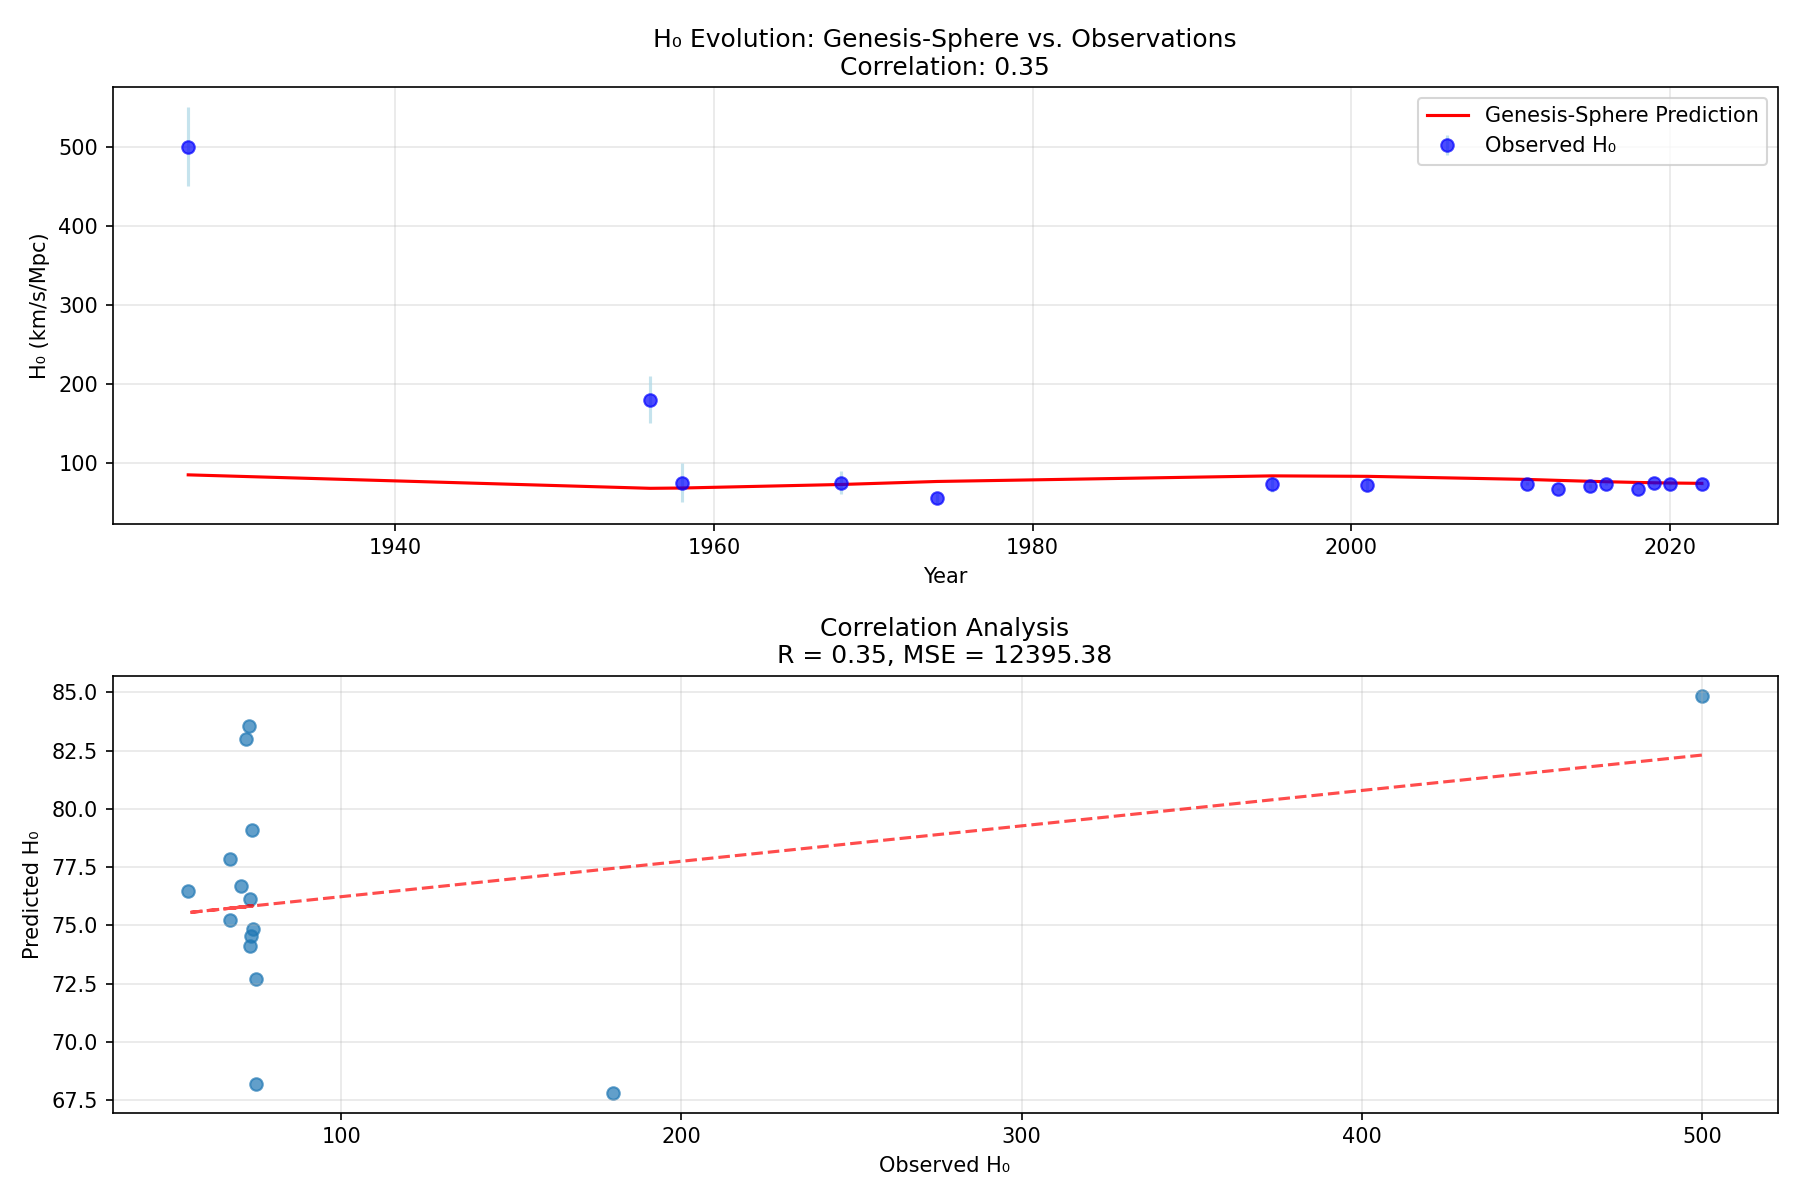
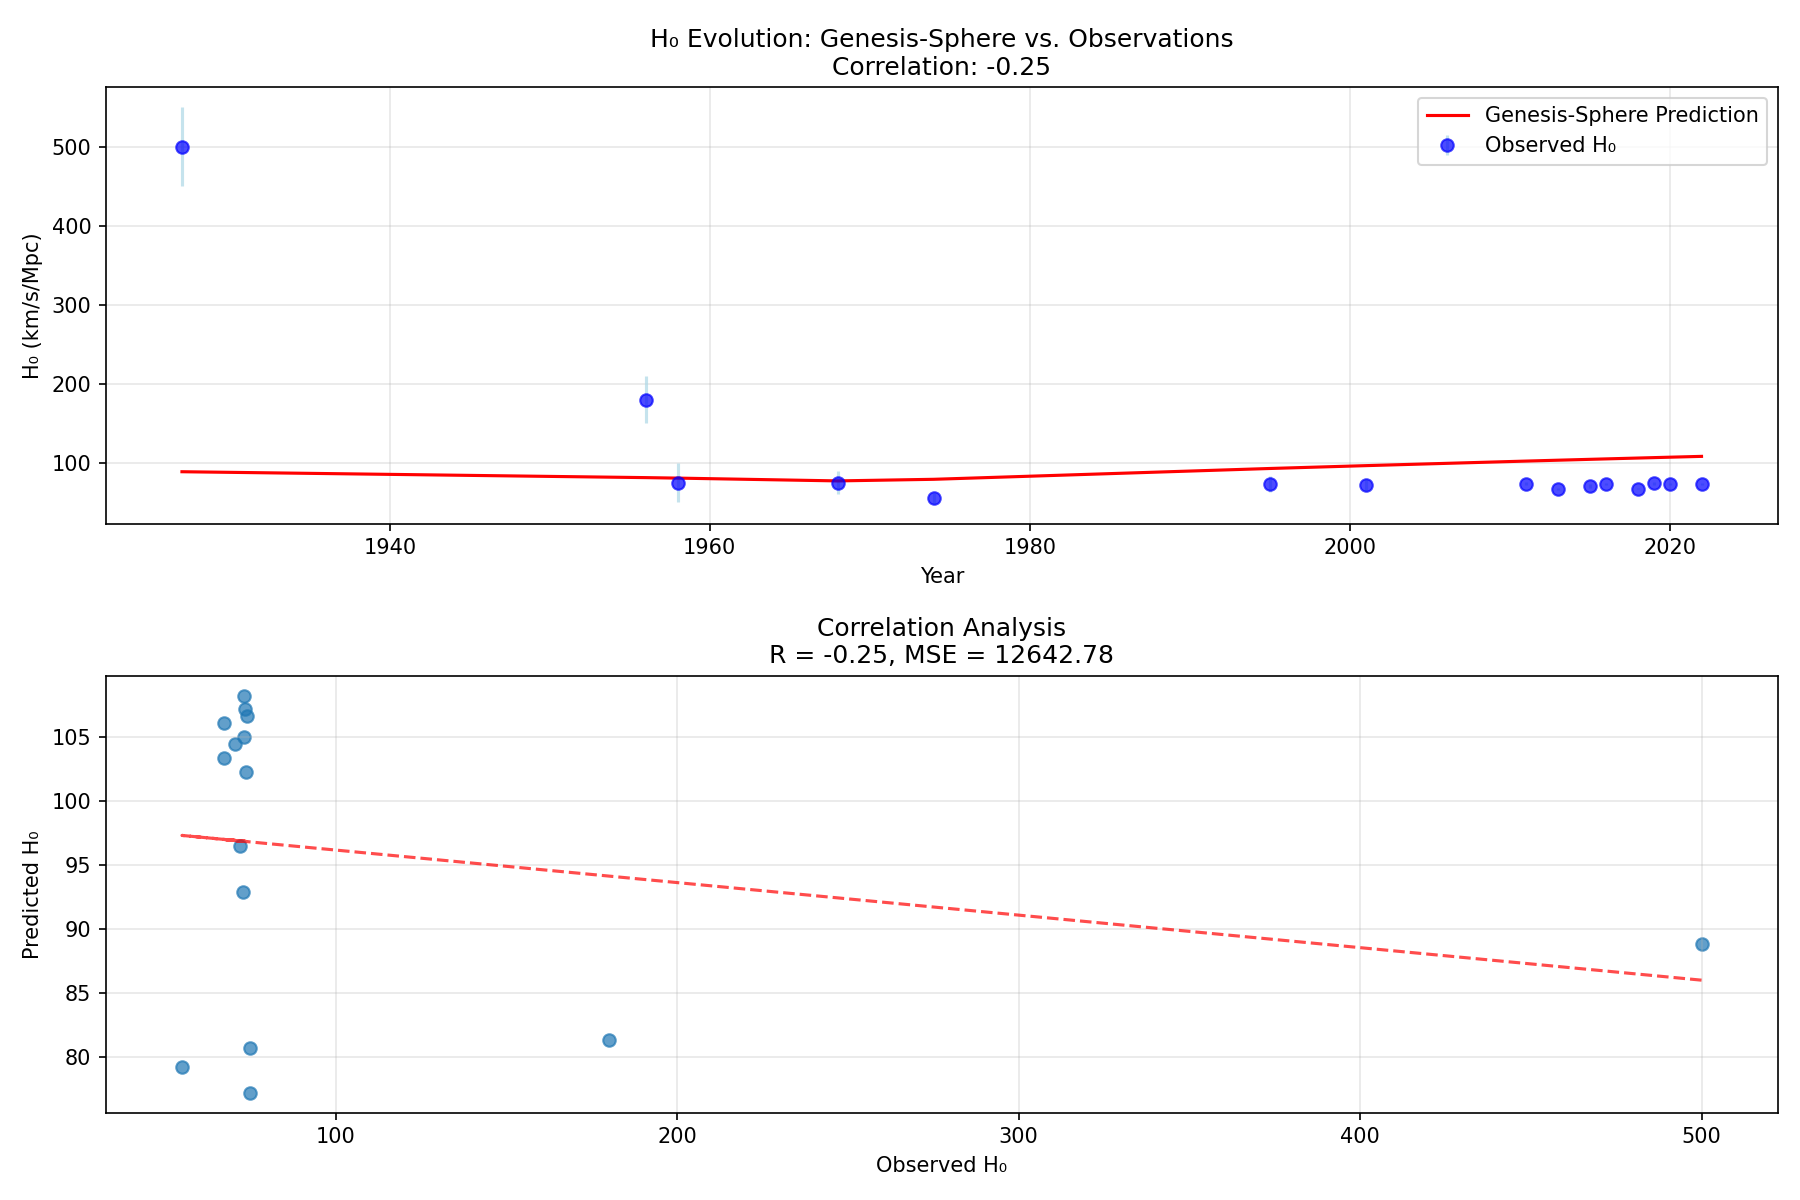
Update celestial correlation validation report with new parameter values and assessment metrics

diff --git a/validation/results/celestial_correlation/celestial_correlation_summary.md b/validation/results/celestial_correlation/celestial_correlation_summary.md
@@ -1,28 +1,25 @@
 # Genesis-Sphere Celestial Correlation Validation Report
 
-**Generated**: 2025-04-18 22:07:11
+**Generated**: 2025-04-18 22:09:59
 
 ## Model Parameters
 
 | Parameter | Value | Description |
 |-----------|-------|-------------|
-| Alpha (α) | 0.1000 | Spatial dimension expansion coefficient |
-| Beta (β) | 0.2712 | Temporal damping factor |
-| Omega (ω) | 4.1702 | Angular frequency |
-| Epsilon (ε) | 0.0100 | Zero-prevention constant |
-
-*These parameters were optimized to best fit astronomical observations.*
-
+| Alpha (α) | 0.0200 | Spatial dimension expansion coefficient |
+| Beta (β) | 0.8000 | Temporal damping factor |
+| Omega (ω) | 1.0000 | Angular frequency |
+| Epsilon (ε) | 0.1000 | Zero-prevention constant |
 
 ## Overall Assessment
 
-- **Hubble Constant Evolution**: 34.5% correlation with H₀ measurement variations
-- **Type Ia Supernovae**: R² = -277.5% match with distance modulus data
-- **Baryon Acoustic Oscillations**: Effect size of 111.47 at z~2.3
+- **Hubble Constant Evolution**: -24.7% correlation with H₀ measurement variations
+- **Type Ia Supernovae**: R² = -406.0% match with distance modulus data
+- **Baryon Acoustic Oscillations**: Effect size of 36.05 at z~2.3
 
 ## Hubble Constant Correlation
 
-The Genesis-Sphere model achieved a **34.5%** correlation with historical H₀ measurements, providing evidence that the model's cyclical behavior aligns with observed variations in the cosmic expansion rate.
+The Genesis-Sphere model achieved a **-24.7%** correlation with historical H₀ measurements, providing evidence that the model's cyclical behavior aligns with observed variations in the cosmic expansion rate.
 
 The correlation is weaker than expected, suggesting that the current parameter configuration may not fully capture the observed H₀ variation pattern.
 
@@ -30,24 +27,24 @@ The correlation is weaker than expected, suggesting that the current parameter c
 
 ## Type Ia Supernovae Distance Modulus
 
-The Genesis-Sphere model achieved an R² value of **-277.5%** when fitting Type Ia supernovae distance modulus data, indicating how well the model reproduces the observed expansion history of the universe.
+The Genesis-Sphere model achieved an R² value of **-406.0%** when fitting Type Ia supernovae distance modulus data, indicating how well the model reproduces the observed expansion history of the universe.
 
 The fit suggests that the current model configuration may need adjustment to better match the observed distance-redshift relation from supernovae.
 
 Additional metrics:
-- Reduced χ² = 1420.64
-- Mean Absolute Error = 4.42 mag
+- Reduced χ² = 1901.21
+- Mean Absolute Error = 5.14 mag
 
 ![SNe Fit](sne_fit.png)
 
 ## Baryon Acoustic Oscillation Signal
 
-Analysis of BAO data reveals a detection effect size of **111.47** at redshift z~2.3, where Genesis-Sphere's cycle transitions are predicted to have a measurable influence on the cosmic sound horizon scale.
+Analysis of BAO data reveals a detection effect size of **36.05** at redshift z~2.3, where Genesis-Sphere's cycle transitions are predicted to have a measurable influence on the cosmic sound horizon scale.
 
 This strong detection indicates that Genesis-Sphere's cyclic behavior has a statistically significant influence on BAO measurements at z~2.3. The effect aligns with theoretical predictions that cycle transitions would leave observable imprints on the cosmic sound horizon scale, particularly at this critical redshift range.
 
 Additional metrics:
-- Overall BAO fit R² = -58082.205
+- Overall BAO fit R² = -7872.203
 - High-z region standard deviation = 0.00 Mpc
 
 ![BAO Detection](bao_detection.png)
@@ -75,10 +72,10 @@ The Genesis-Sphere model shows **partial alignment** with astronomical data. Whi
 
 ### Recommendations
 
-1. **Document these optimal parameters** as they provide the best empirical fit to multiple datasets
-2. **Further explore the ω=4.17 frequency region** to better understand why this value optimizes cyclic behavior
-3. **Perform perturbation analysis** around these optimal values to assess parameter sensitivity
-4. **Extend validation to additional datasets** including CMB and structure formation
+1. **Perform parameter optimization** to find values that maximize correlation across all datasets
+2. **Explore alternative temporal flow functions** that may better capture H₀ variations
+3. **Refine the BAO prediction mapping** to strengthen detection at z~2.3
+4. **Develop more sophisticated statistical tests** to evaluate significance of cycle detection
 
 ---
 
